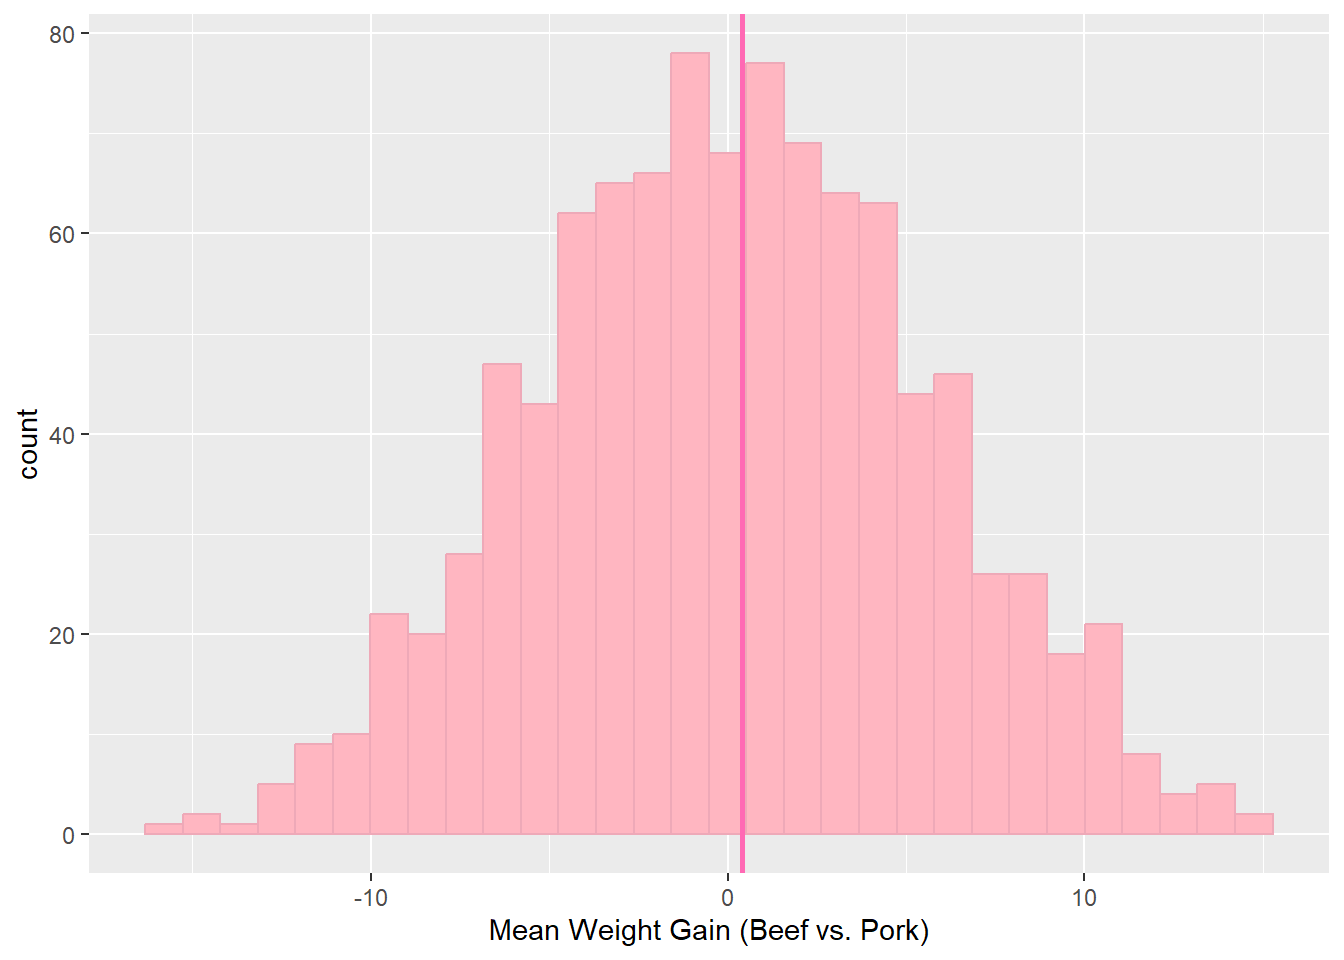
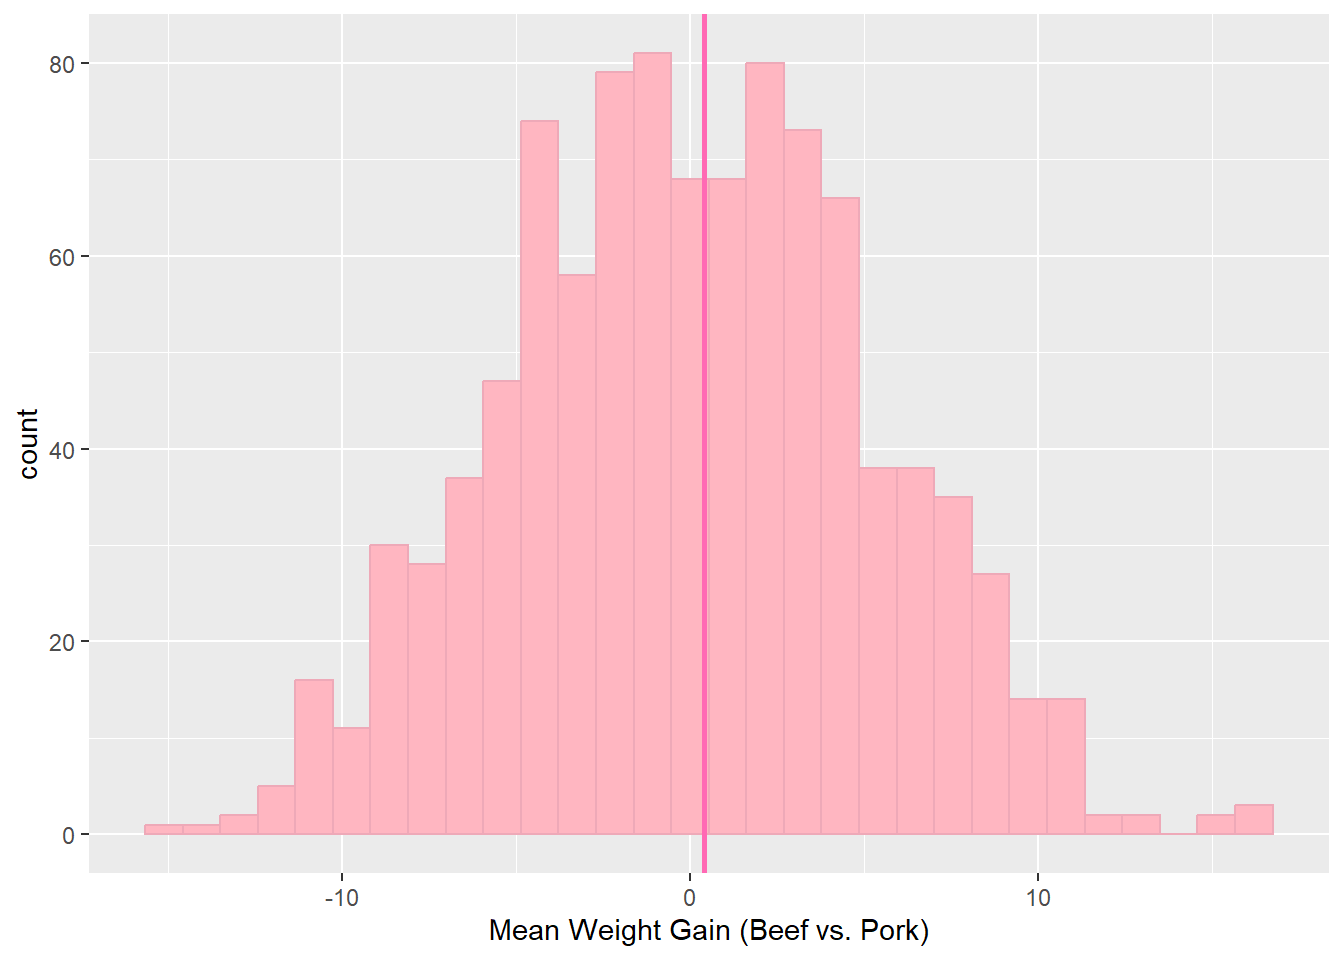
RatS

diff --git a/docs/mini_project2.html b/docs/mini_project2.html
@@ -159,7 +159,7 @@ ul.task-list li input[type="checkbox"] {
 <p><img src="mini_project2_files/figure-html/unnamed-chunk-4-1.png" class="img-fluid" width="672"></p>
 </div>
 <div class="cell-output cell-output-stdout">
-<pre><code>Beef vs. Pork p-value: 0.301 </code></pre>
+<pre><code>Beef vs. Pork p-value: 0.297 </code></pre>
 </div>
 </div>
 <div class="cell">
@@ -167,7 +167,7 @@ ul.task-list li input[type="checkbox"] {
 <p><img src="mini_project2_files/figure-html/unnamed-chunk-5-1.png" class="img-fluid" width="672"></p>
 </div>
 <div class="cell-output cell-output-stdout">
-<pre><code>Beef vs. Cereal p-value: 0.279 </code></pre>
+<pre><code>Beef vs. Cereal p-value: 0.316 </code></pre>
 </div>
 </div>
 <div class="cell">
@@ -175,7 +175,7 @@ ul.task-list li input[type="checkbox"] {
 <p><img src="mini_project2_files/figure-html/unnamed-chunk-6-1.png" class="img-fluid" width="672"></p>
 </div>
 <div class="cell-output cell-output-stdout">
-<pre><code>Pork vs. Cereal p-value: 0.294 </code></pre>
+<pre><code>Pork vs. Cereal p-value: 0.303 </code></pre>
 </div>
 </div>
 <p>As we can see, all of the p-values are close to 0.3. Generally, if the p-value is less than 0.05, we will consider the results of the study statistically significant. Because these results are well over the point of statistical significance, we can fail to reject the null hypothesis and claim that the difference in weight gains due to different proteins is not statistically significant.</p>
